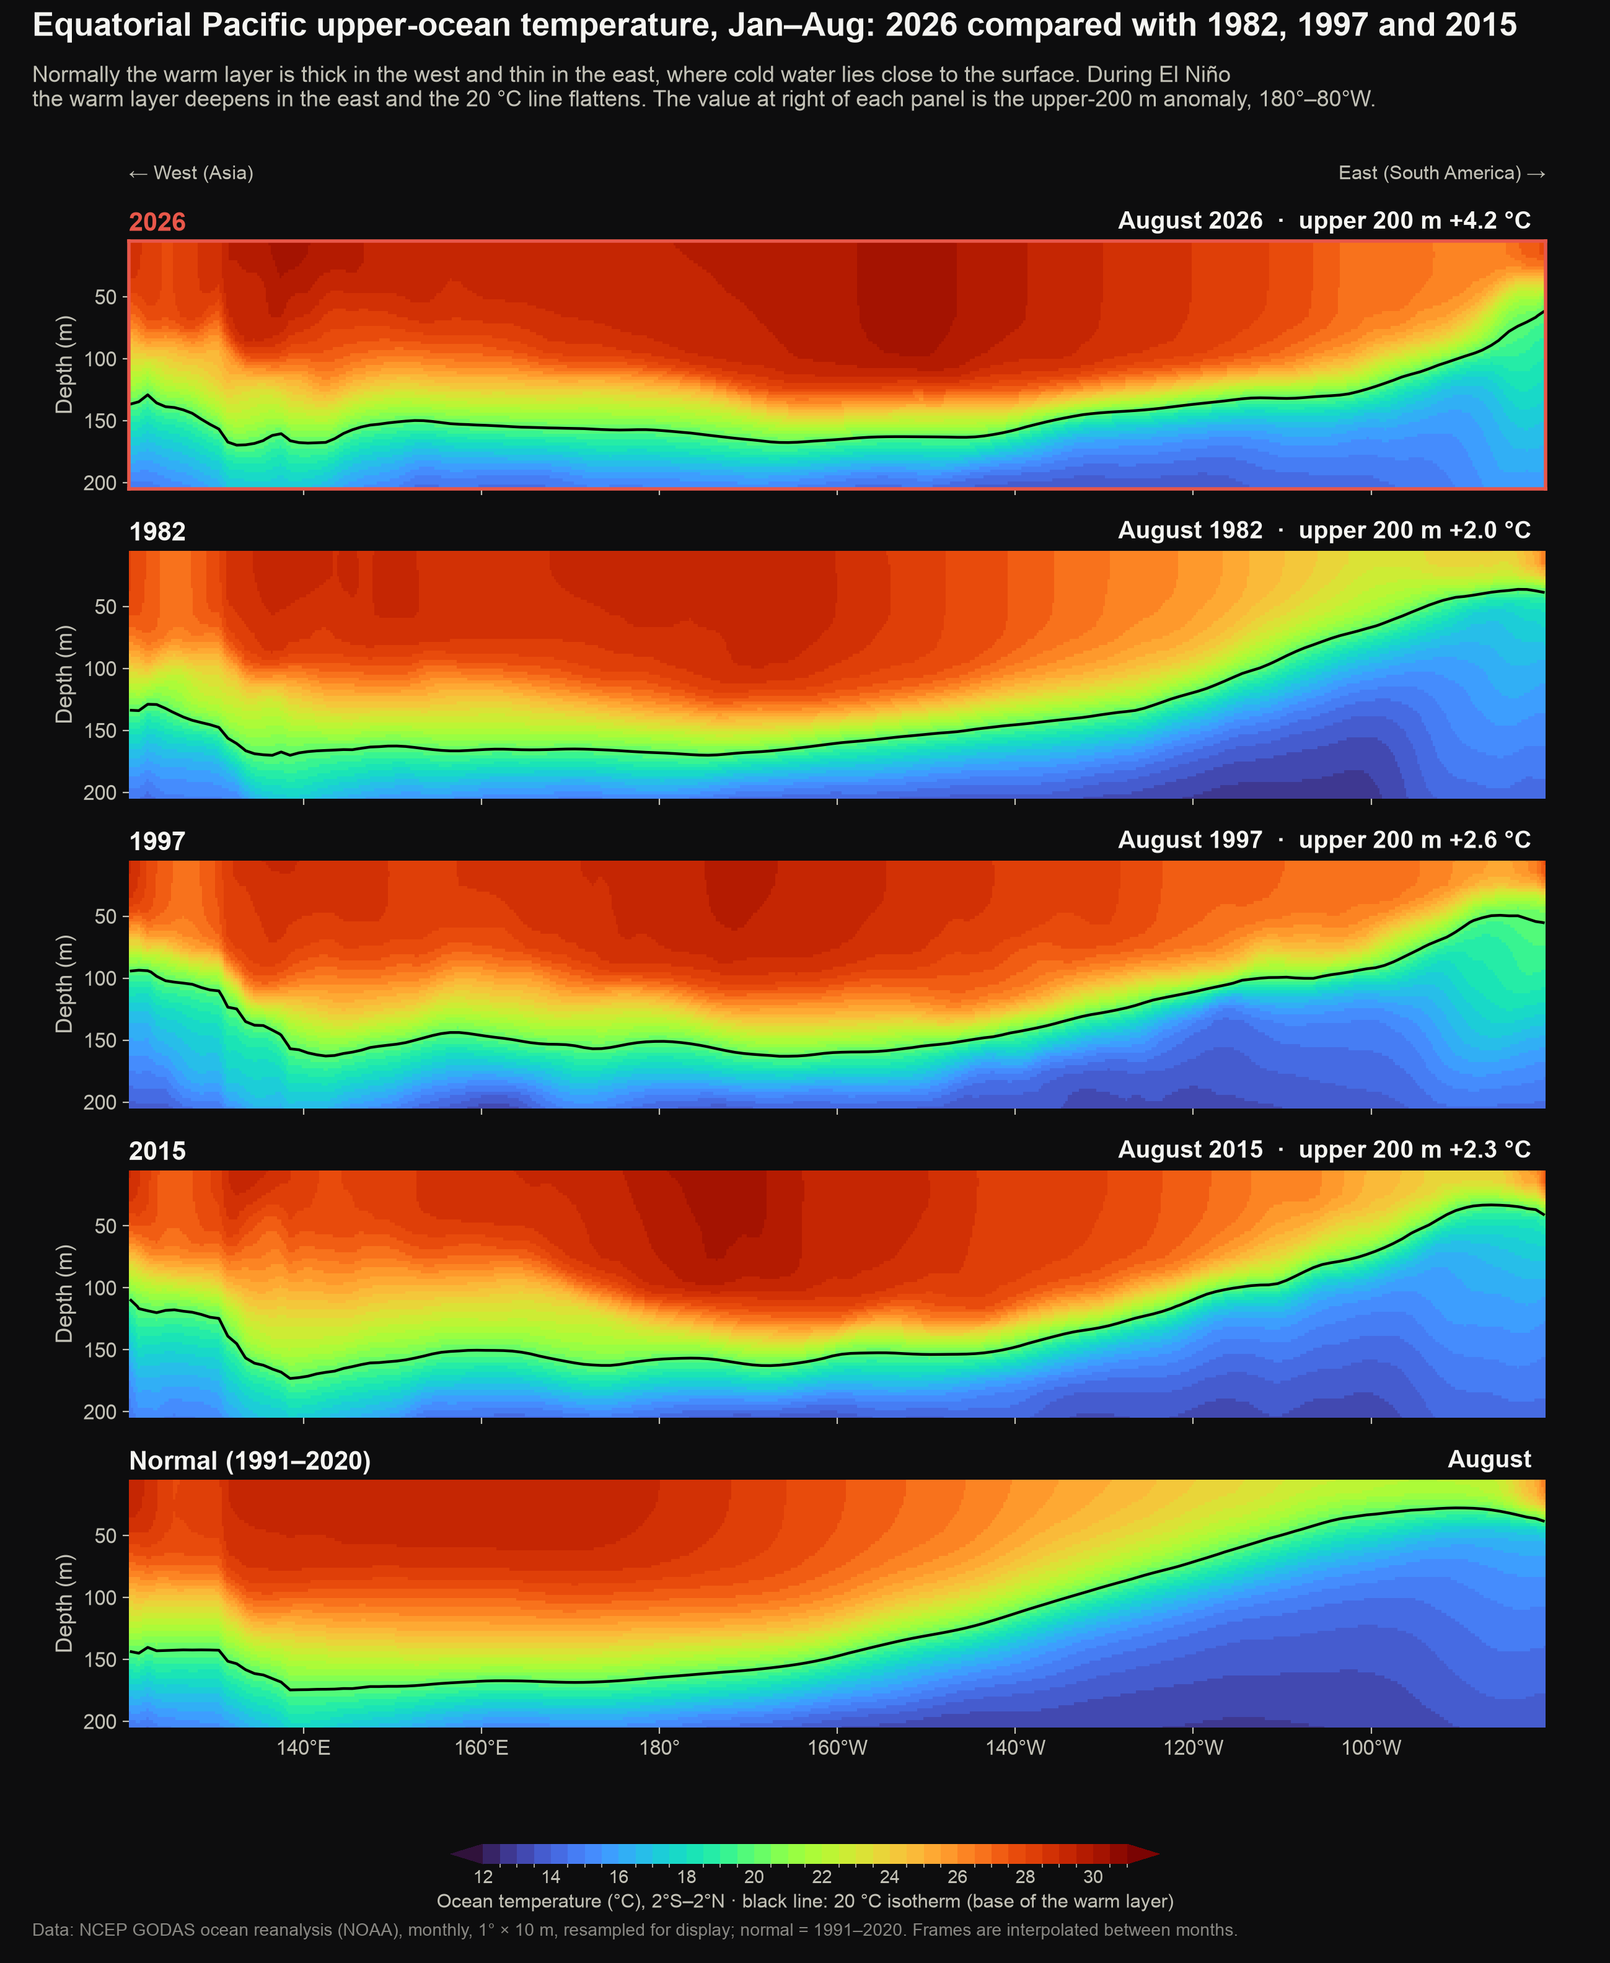
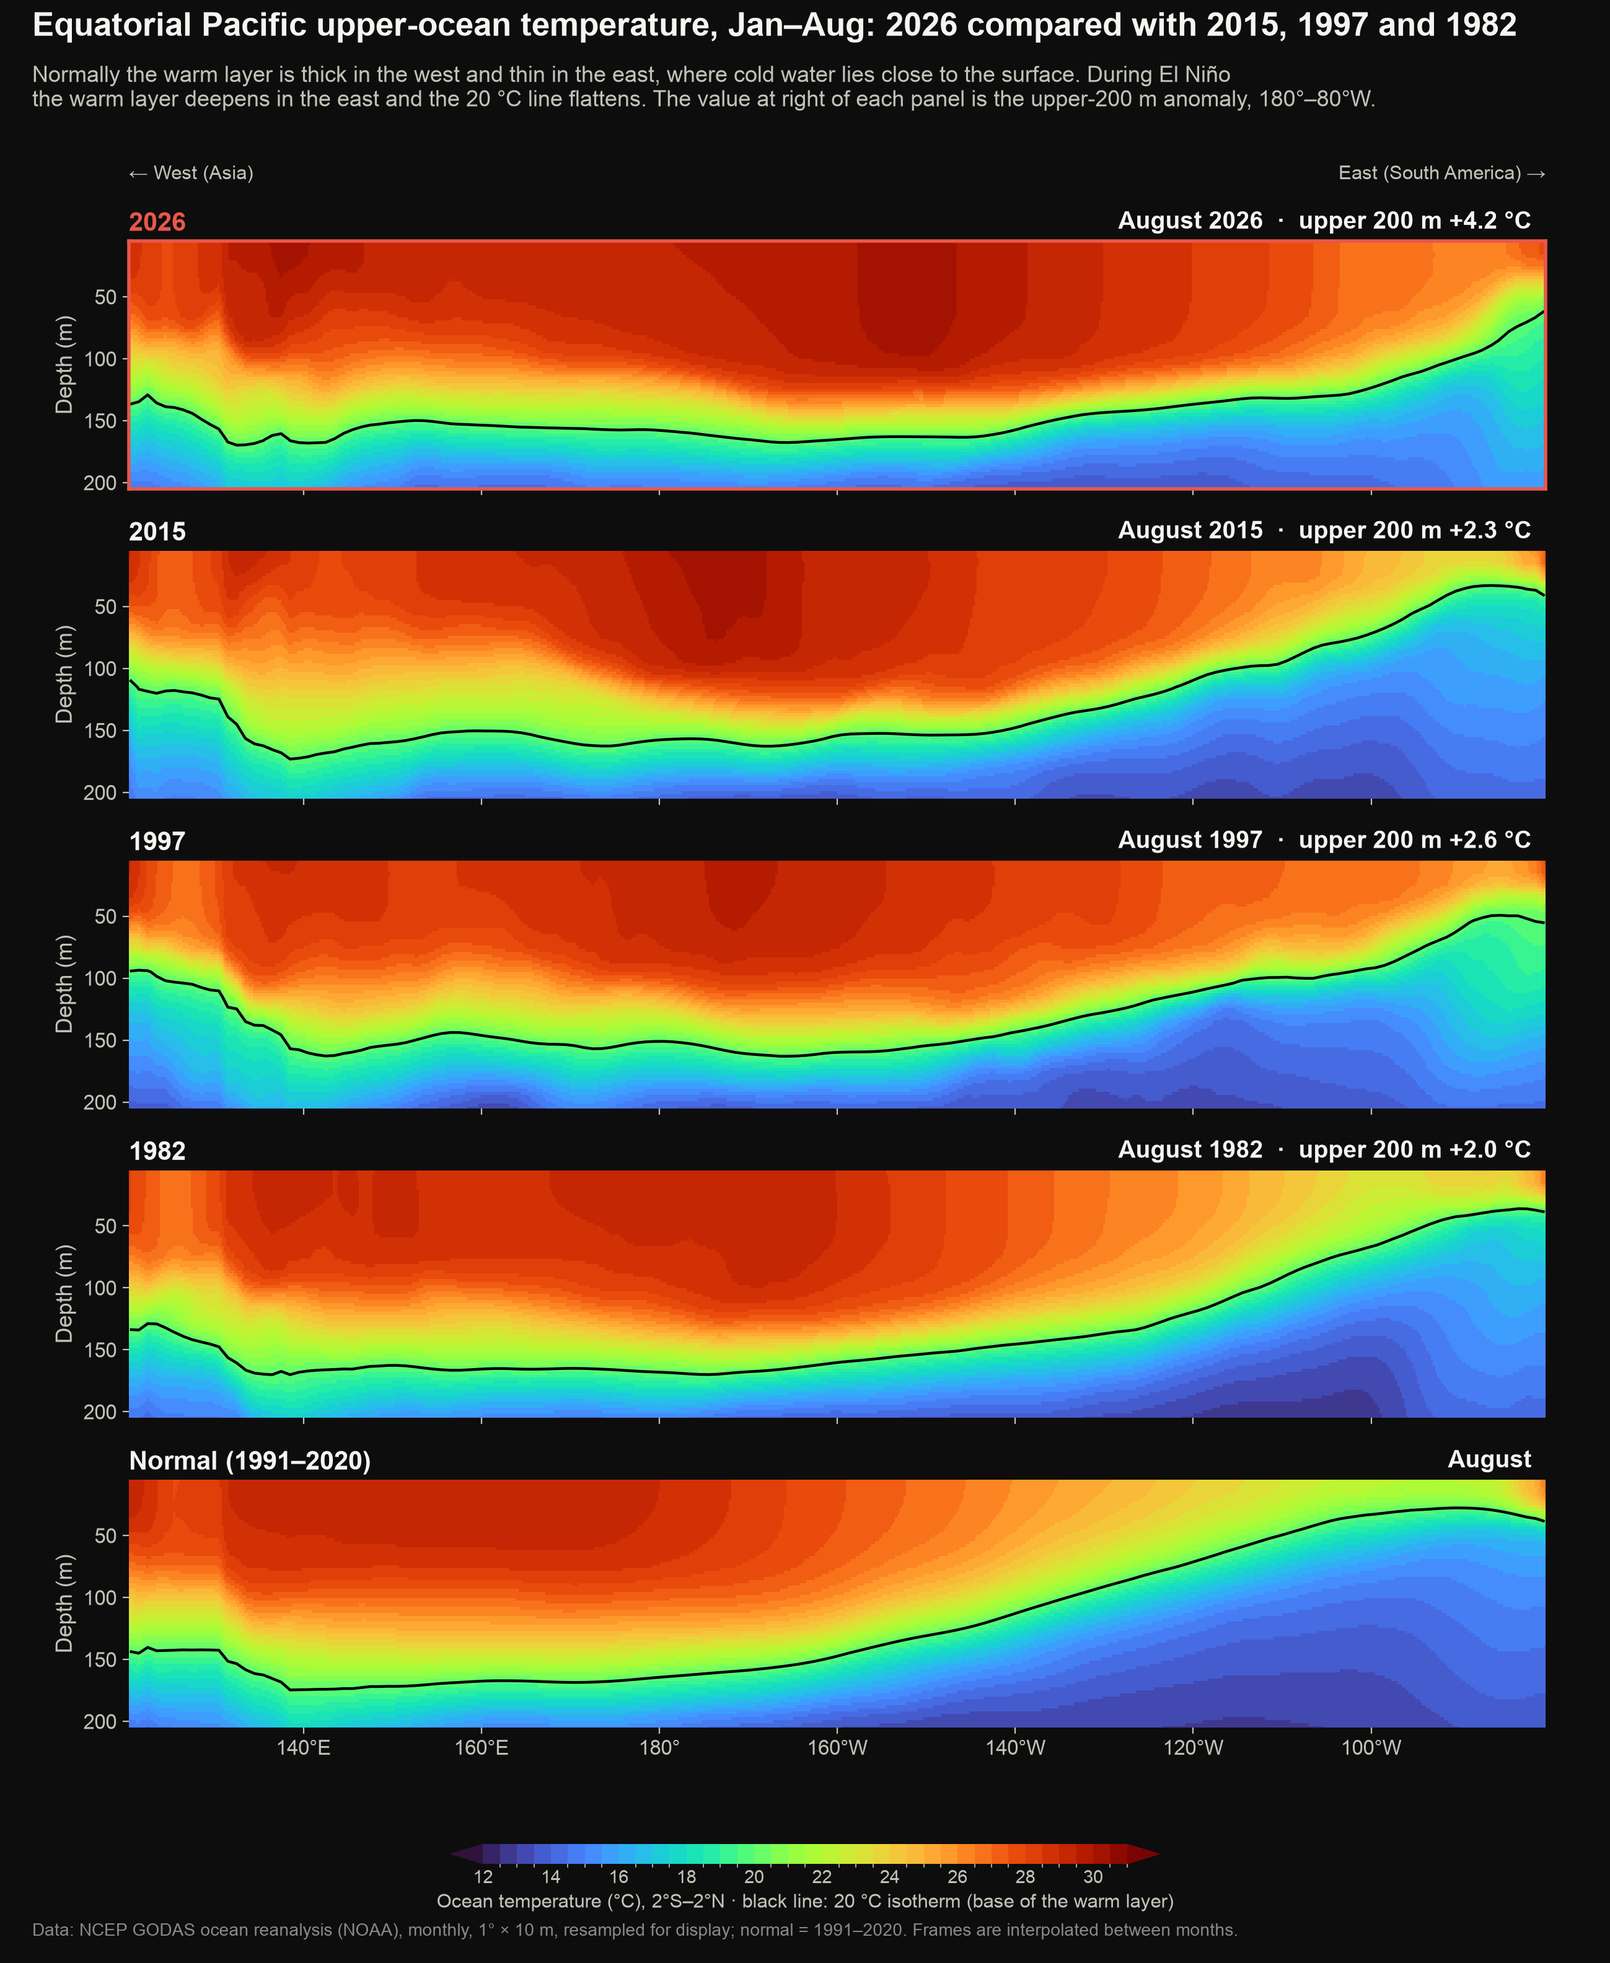
Order past events from most recent to least recent in animations, legends and text

diff --git a/docs/index.html b/docs/index.html
@@ -143,7 +143,7 @@
   <h2>What's happening now</h2>
   <dl>
     <dt>Current strength</dt><dd>NOAA&#x27;s Relative Oceanic Niño Index reached +1.7 °C for Jul–Sep 2026, a strong El Niño. The monthly Niño 3.4 anomaly was +2.8 °C in September.</dd>
-    <dt>Compared with past events</dt><dd>In September, Niño 3.4 (+2.8 °C, against +1.8 °C in 1997) and Niño 1+2 (+4.7 °C, against +3.6 °C in 1997) are warmer than in 1982, 1997 and 2015 at the same point in the year.</dd>
+    <dt>Compared with past events</dt><dd>In September, Niño 3.4 (+2.8 °C, against +1.8 °C in 1997) and Niño 1+2 (+4.7 °C, against +3.6 °C in 1997) are warmer than in 2015, 1997 and 1982 at the same point in the year.</dd>
     <dt>Below the surface</dt><dd>In August, the upper 200 m of the central and eastern equatorial Pacific was +4.2 °C above normal, compared with at most +2.6 °C (1997) in past very strong events at the same stage.</dd>
     <dt>Forecast</dt><dd>NOAA&#x27;s October 2026 outlook gives a 100% probability of a very strong event (≥ +2.0 °C), with a median forecast peak of +2.7 °C in Oct–Dec 2026, above the 1950–present record of +2.4 °C (1982–83).</dd>
     <dt>Southern California</dt><dd>Coastal waters have recorded 220 marine heatwave days in 2026 through 23 September, the most on record for the date. NOAA&#x27;s outlook gives Los Angeles a 50–60% chance of a wetter-than-normal December–February.</dd>
@@ -451,9 +451,9 @@
 })();
 </script>
 
-<figure id="g3"><a href="img/03_anim_sst.webp" target="_blank" rel="noopener"><img src="img/03_anim_sst.webp" alt="Animated maps of tropical Pacific sea surface temperature from January to September for 2026, 1982, 1997, 2015 and the 1991–2020 normal. In September, the Niño 3.4 region averaged 29.6 °C in 2026, 28.0 °C in 1982, 28.6 °C in 1997, 28.5 °C in 2015, and 26.7 °C normally." width="1430" height="2028" decoding="async"></a><figcaption><b>Figure 3. Animation: sea surface temperature, 2026 and past very strong events.</b> Animated month-by-month sea surface temperature across the tropical Pacific (NOAA OISST, 0.25°), January to the latest month, for 2026, 1982, 1997, 2015 and the 1991–2020 normal, with the Niño 3.4 average for each. <a href="img/03_anim_sst.png" target="_blank" rel="noopener">Still image of the final frame.</a></figcaption></figure>
-<figure id="g4"><a href="img/04_anim_upper_ocean.webp" target="_blank" rel="noopener"><img src="img/04_anim_upper_ocean.webp" alt="Animated depth–longitude sections of equatorial Pacific ocean temperature from January to August for 2026, 1982, 1997 and 2015 and the 1991–2020 normal. In August, the upper 200 m east of 180° departed from normal by +4.2 °C in 2026, +2.0 °C in 1982, +2.6 °C in 1997 and +2.3 °C in 2015." width="1494" height="1822" decoding="async"></a><figcaption><b>Figure 4. Animation: upper-ocean temperature, 2026 and past very strong events.</b> Animated equatorial upper-ocean temperature sections for 2026, 1982, 1997, 2015 and the 1991–2020 normal; during El Niño the warm layer deepens in the east and the 20 °C line flattens. <a href="img/04_anim_upper_ocean.png" target="_blank" rel="noopener">Still image of the final frame.</a></figcaption></figure>
-<figure id="g5"><a href="img/05_anim_warm_water.webp" target="_blank" rel="noopener"><img src="img/05_anim_warm_water.webp" alt="Animated maps of the depth of the 20 °C isotherm across the tropical Pacific from July 2025 to August 2026 for 2026, 1982, 1997 and 2015 and the 1991–2020 normal. In August, the equatorial warm water volume departed from normal by +3.2 × 10¹⁴ m³ in 2026, +2.2 × 10¹⁴ m³ in 1982, +1.4 × 10¹⁴ m³ in 1997 and +1.0 × 10¹⁴ m³ in 2015." width="1430" height="2028" decoding="async"></a><figcaption><b>Figure 5. Animation: warm water moving across the Pacific.</b> Animated maps of the depth of the 20 °C isotherm (the thickness of the warm upper layer) from July of the year before onset, for 2026, 1982, 1997, 2015 and the 1991–2020 normal, with the equatorial warm water volume (5°S–5°N) and its departure from normal. <a href="img/05_anim_warm_water.png" target="_blank" rel="noopener">Still image of the final frame.</a></figcaption></figure>
+<figure id="g3"><a href="img/03_anim_sst.webp" target="_blank" rel="noopener"><img src="img/03_anim_sst.webp" alt="Animated maps of tropical Pacific sea surface temperature from January to September for 2026, 2015, 1997, 1982 and the 1991–2020 normal. In September, the Niño 3.4 region averaged 29.6 °C in 2026, 28.0 °C in 2015, 28.6 °C in 1997, 28.5 °C in 1982, and 26.7 °C normally." width="1430" height="2028" decoding="async"></a><figcaption><b>Figure 3. Animation: sea surface temperature, 2026 and past very strong events.</b> Animated month-by-month sea surface temperature across the tropical Pacific (NOAA OISST, 0.25°), January to the latest month, for 2026, 2015, 1997, 1982 and the 1991–2020 normal, with the Niño 3.4 average for each. <a href="img/03_anim_sst.png" target="_blank" rel="noopener">Still image of the final frame.</a></figcaption></figure>
+<figure id="g4"><a href="img/04_anim_upper_ocean.webp" target="_blank" rel="noopener"><img src="img/04_anim_upper_ocean.webp" alt="Animated depth–longitude sections of equatorial Pacific ocean temperature from January to August for 2026, 2015, 1997 and 1982 and the 1991–2020 normal. In August, the upper 200 m east of 180° departed from normal by +4.2 °C in 2026, +2.3 °C in 2015, +2.6 °C in 1997 and +2.0 °C in 1982." width="1494" height="1822" decoding="async"></a><figcaption><b>Figure 4. Animation: upper-ocean temperature, 2026 and past very strong events.</b> Animated equatorial upper-ocean temperature sections for 2026, 2015, 1997, 1982 and the 1991–2020 normal; during El Niño the warm layer deepens in the east and the 20 °C line flattens. <a href="img/04_anim_upper_ocean.png" target="_blank" rel="noopener">Still image of the final frame.</a></figcaption></figure>
+<figure id="g5"><a href="img/05_anim_warm_water.webp" target="_blank" rel="noopener"><img src="img/05_anim_warm_water.webp" alt="Animated maps of the depth of the 20 °C isotherm across the tropical Pacific from July 2025 to August 2026 for 2026, 2015, 1997 and 1982 and the 1991–2020 normal. In August, the equatorial warm water volume departed from normal by +3.2 × 10¹⁴ m³ in 2026, +1.0 × 10¹⁴ m³ in 2015, +1.4 × 10¹⁴ m³ in 1997 and +2.2 × 10¹⁴ m³ in 1982." width="1430" height="2028" decoding="async"></a><figcaption><b>Figure 5. Animation: warm water moving across the Pacific.</b> Animated maps of the depth of the 20 °C isotherm (the thickness of the warm upper layer) from July of the year before onset, for 2026, 2015, 1997, 1982 and the 1991–2020 normal, with the equatorial warm water volume (5°S–5°N) and its departure from normal. <a href="img/05_anim_warm_water.png" target="_blank" rel="noopener">Still image of the final frame.</a></figcaption></figure>
 <h2 class="section">Current state and forecast</h2>
 <figure id="g6"><a href="img/06_roni_vs_past_events.png" target="_blank" rel="noopener"><img src="img/06_roni_vs_past_events.png" alt="Line chart of El Niño strength from January 2026 to June 2027. 2026 rose from -0.9 °C in January to +1.7 °C now; NOAA&#x27;s forecast peaks near +2.7 °C, above the record of +2.4 °C set in 1982–83." width="2600" height="1520" decoding="async"></a><figcaption><b>Figure 6. Event development vs. past very strong events.</b> Development of the 2026–27 event in NOAA&#x27;s Relative Oceanic Niño Index alongside the four strongest El Niño events since 1950, with NOAA&#x27;s official forecast.</figcaption></figure>
 <figure id="g7"><a href="img/07_forecast_verification.png" target="_blank" rel="noopener"><img src="img/07_forecast_verification.png" alt="Verification of NOAA&#x27;s 2026 El Niño strength forecasts. For Jul–Sep 2026 (observed +1.69 °C, strong), forecasts by issue month gave the observed category: April 11%; May 17%; June 36%; July 57%; August 76%. Probability of a very strong peak in Nov 2026–Jan 2027 by issue: April 25%; May 37%; June 63%; July 75%; August 90%; September 93%; October 96%." width="2600" height="1840" decoding="async"></a><figcaption><b>Figure 7. Verification of NOAA&#x27;s 2026 forecasts.</b> Each monthly NOAA strength forecast issued since April 2026 compared with the observed RONI, and how confidence in a very strong peak has evolved.</figcaption></figure>

diff --git a/site_config.py b/site_config.py
@@ -33,14 +33,14 @@ PAGES = [
              "event at the selected month. Select any gray line, or use the menu, to highlight another event."),
             ("anim_sst.py", True, "Animation: sea surface temperature, 2026 and past very strong events",
              "Animated month-by-month sea surface temperature across the tropical Pacific (NOAA OISST, 0.25°), "
-             "January to the latest month, for 2026, 1982, 1997, 2015 and the 1991–2020 normal, with the Niño 3.4 "
+             "January to the latest month, for 2026, 2015, 1997, 1982 and the 1991–2020 normal, with the Niño 3.4 "
              "average for each."),
             ("anim_upper_ocean.py", False, "Animation: upper-ocean temperature, 2026 and past very strong events",
-             "Animated equatorial upper-ocean temperature sections for 2026, 1982, 1997, 2015 and the 1991–2020 "
+             "Animated equatorial upper-ocean temperature sections for 2026, 2015, 1997, 1982 and the 1991–2020 "
              "normal; during El Niño the warm layer deepens in the east and the 20 °C line flattens."),
             ("anim_warm_water.py", False, "Animation: warm water moving across the Pacific",
              "Animated maps of the depth of the 20 °C isotherm (the thickness of the warm upper layer) from July of "
-             "the year before onset, for 2026, 1982, 1997, 2015 and the 1991–2020 normal, with the equatorial warm "
+             "the year before onset, for 2026, 2015, 1997, 1982 and the 1991–2020 normal, with the equatorial warm "
              "water volume (5°S–5°N) and its departure from normal."),
             ("section", "Current state and forecast"),
             ("roni_vs_past_events.py", True, "Event development vs. past very strong events",

diff --git a/anim_warm_water.py b/anim_warm_water.py
@@ -1,6 +1,6 @@
 """
 Animation 4 — Warm water moving across the tropical Pacific: thickness of the warm upper layer,
-month by month, for 2026, the past very strong El Niños (1982, 1997, 2015) and normal
+month by month, for 2026, the past very strong El Niños (2015, 1997, 1982) and normal
 
 Maps of the depth of the 20 °C isotherm (D20) from NCEP GODAS over 20°S–20°N, 120°E–80°W.
 D20 is the thickness of the warm upper layer: where it is deep, a large volume of warm water
@@ -108,7 +108,7 @@ def wwv(field, lat, lon):
 def main():
     ap = argparse.ArgumentParser(description=__doc__, formatter_class=argparse.RawDescriptionHelpFormatter)
     ap.add_argument("--year", type=int, default=2026)
-    ap.add_argument("--compare", type=int, nargs="+", default=[1982, 1997, 2015],
+    ap.add_argument("--compare", type=int, nargs="+", default=[2015, 1997, 1982],
                     help="past onset years to show (GODAS begins in 1980)")
     ap.add_argument("--steps", type=int, default=4, help="interpolated frames per month")
     ap.add_argument("--theme", choices=["dark", "light"], default="dark")

diff --git a/anim_sst.py b/anim_sst.py
@@ -1,6 +1,6 @@
 """
 Animation 1 — Tropical Pacific sea surface temperature, month by month: 2026, the past very
-strong El Niños (1982, 1997, 2015) and normal
+strong El Niños (2015, 1997, 1982) and normal
 
 Monthly mean sea surface temperature from NOAA OISST v2.1 (0.25°) from January to
 the latest available month of the current year, for the current year (top), the
@@ -29,7 +29,7 @@ from enso_marine import PACIFIC, pacific_monthly, pacific_normals
 def main():
     ap = argparse.ArgumentParser(description=__doc__, formatter_class=argparse.RawDescriptionHelpFormatter)
     ap.add_argument("--year", type=int, default=2026)
-    ap.add_argument("--compare", type=int, nargs="+", default=[1982, 1997, 2015],
+    ap.add_argument("--compare", type=int, nargs="+", default=[2015, 1997, 1982],
                     help="past onset years to show (OISST begins in September 1981)")
     ap.add_argument("--steps", type=int, default=4, help="interpolated frames per month")
     ap.add_argument("--theme", choices=["dark", "light"], default="dark")

diff --git a/anim_upper_ocean.py b/anim_upper_ocean.py
@@ -1,6 +1,6 @@
 """
 Animation 2 — Equatorial upper-ocean temperature, month by month: 2026, the past very strong
-El Niños (1982, 1997, 2015) and normal
+El Niños (2015, 1997, 1982) and normal
 
 Depth–longitude sections of GODAS ocean temperature (2°S–2°N, 5–205 m) from
 January to the latest available month of the current year, for the current year,
@@ -28,7 +28,7 @@ from enso_common import (FIG_DIR, GODAS_DIR, COLORS, add_source, add_title, appl
 def main():
     ap = argparse.ArgumentParser(description=__doc__, formatter_class=argparse.RawDescriptionHelpFormatter)
     ap.add_argument("--year", type=int, default=2026)
-    ap.add_argument("--compare", type=int, nargs="+", default=[1982, 1997, 2015],
+    ap.add_argument("--compare", type=int, nargs="+", default=[2015, 1997, 1982],
                     help="past onset years to show (GODAS begins in 1980)")
     ap.add_argument("--steps", type=int, default=4)
     ap.add_argument("--theme", choices=["dark", "light"], default="dark")

diff --git a/anim_timeseries.py b/anim_timeseries.py
@@ -24,7 +24,7 @@ from enso_stats import load_gridded
 from event_timeseries import N_MONTHS, NOW, aligned, box_series, godas_heat_series, onset_year
 
 # the very strong El Niños before 2026, in the site's fixed colour order (1972 predates GODAS)
-HIGHLIGHT = {1972: "#9085e9", 1982: "#3987e5", 1997: "#199e70", 2015: "#c98500"}
+HIGHLIGHT = {2015: "#c98500", 1997: "#199e70", 1982: "#3987e5", 1972: "#9085e9"}
 MONTHS = ["Jan", "Feb", "Mar", "Apr", "May", "Jun", "Jul", "Aug", "Sep", "Oct", "Nov", "Dec"]
 
 

diff --git a/summary.py b/summary.py
@@ -16,7 +16,7 @@ from enso_common import (GODAS_DIR, event_label, find_events, godas_equatorial_s
                          load_cpc_outlook, load_cpc_strengths, load_nino_regions, load_roni, season_label,
                          season_words)
 
-PAST = [1982, 1997, 2015]
+PAST = [2015, 1997, 1982]
 STRENGTH = [(2.0, "very strong"), (1.5, "strong"), (1.0, "moderate"), (0.5, "weak")]
 
 

diff --git a/interactive_data.py b/interactive_data.py
@@ -21,7 +21,7 @@ from enso_common import FIG_DIR, event_label, find_events, load_cpc_outlook, loa
 from enso_stats import load_gridded
 from event_timeseries import N_MONTHS, NOW, aligned, box_series, godas_heat_series, onset_year
 
-HIGHLIGHT = [1972, 1982, 1997, 2015]
+HIGHLIGHT = [2015, 1997, 1982, 1972]
 
 
 def clean(values):
